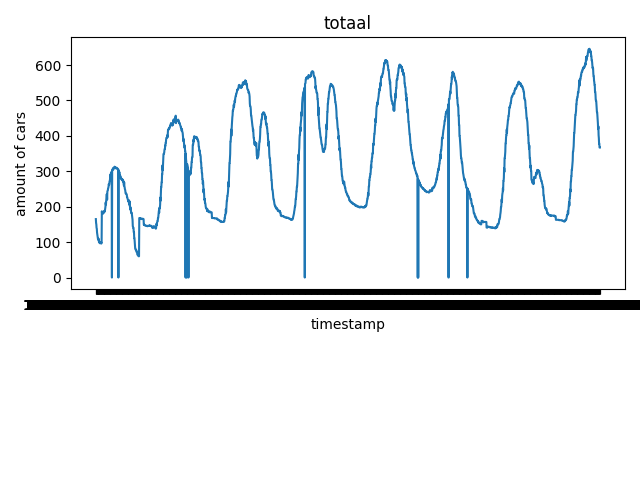
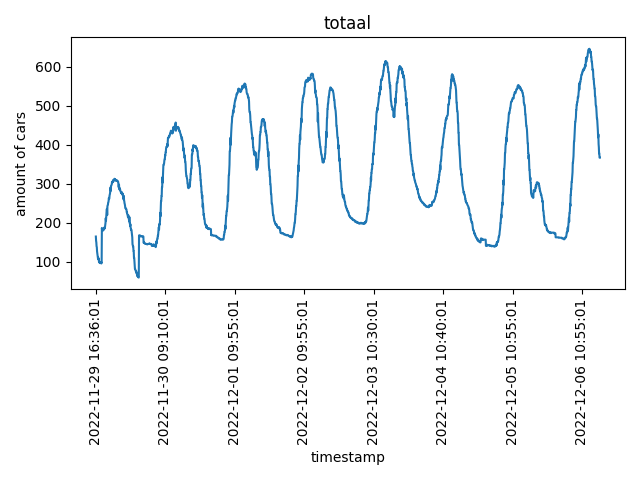
last changes before git pages

diff --git a/data-workflow/scripts/raport.py b/data-workflow/scripts/raport.py
@@ -61,7 +61,8 @@ def aanmakenrapport():
             f.write(lorem.paragraph()+"\n")
             with open(os.path.join(TABELSLOC, file)) as f2:
                 f.write('\n')
-                f.write(f2.read())
+                for line in f2.read():
+                    f.write(line + "\n")
                 f.write('\n')
         f.write('### Conclusie\n')
         f.write(lorem.paragraph()+"\n")

diff --git a/data-workflow/scripts/analyse.py b/data-workflow/scripts/analyse.py
@@ -96,6 +96,9 @@ def plot_totalebeztting(df,name):
     plt.title(name)
     plt.tight_layout()
     plt.savefig(gitloc +'/csvimage/' + name + '.png')
+    plt.cla()
+    plt.clf()
+
 
 #maakt een tabel van de totale capaciteit
 def plot_table_totaal(dataset):
